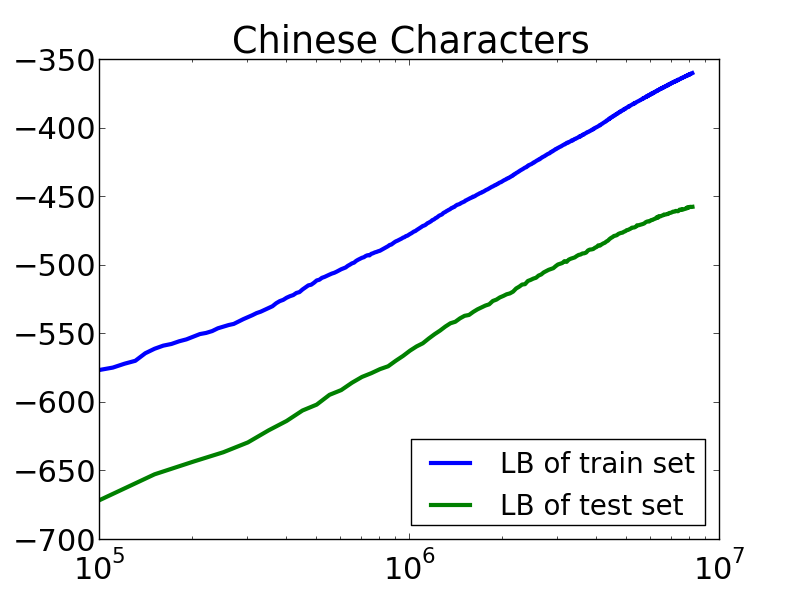
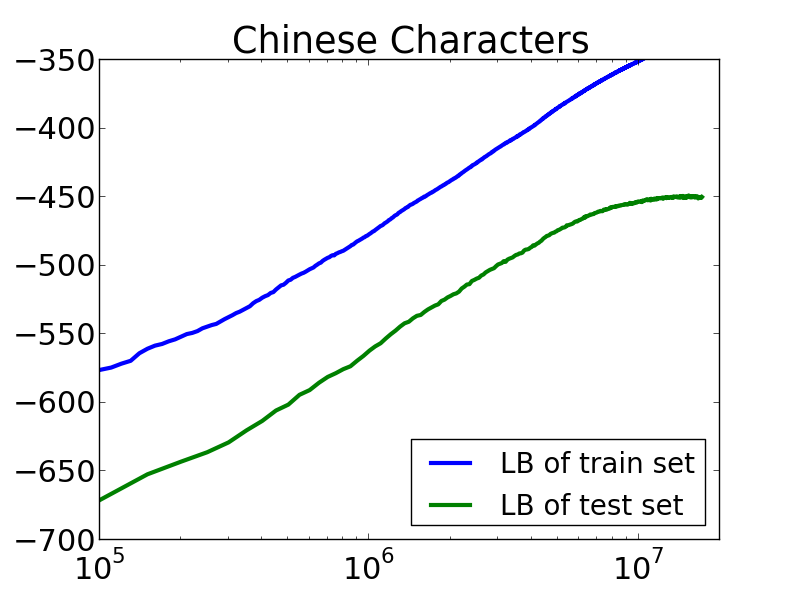
oops forgot to add

diff --git a/report/report.tex b/report/report.tex
@@ -39,8 +39,7 @@ We would like to learn $\theta$ by gradient ascent/descent by differentiating so
 
 \subsection{The variational bound}
 
-%wat betekent "efficiently find the likelihood function?"
-In order to efficiently find the likelihood function, \cite{kingma2013auto} introduce $q_\phi(z|x)$ which approximates the true posterior $p_\theta(z|x)$. The marginal likelihood of each datapoint i then becomes:
+In order to be able to find the likelihood function, \cite{kingma2013auto} introduce $q_\phi(z|x)$ which approximates the (intractable) true posterior $p_\theta(z|x)$. The marginal likelihood of each datapoint i then becomes:
 
 \begin{align}
 	\log p_\theta(x^{(i)}) = D_{KL}(q_\phi(\mathbf{z}|\mathbf{x}^{(i)}) || p_\theta(\mathbf{z}|\mathbf{x}^{(i)})) + \mathcal{L}(\mathbf{\theta}, \mathbf{\phi}; \mathbf{x}^{(i)})
@@ -59,13 +58,15 @@ z = g_\phi(\mathbf{\epsilon},\mathbf{x}) \text{  with  } \mathbf{\epsilon} \sim 
 Where $p(\mathbf{\epsilon}) = N(0,I)$.
 
 %volgende zin snap ik (nog?) niet
+%Ik snap dit gedeelte ook niet helemaal, staat in de paper onderaan pagina 3 van versie 7: http://arxiv.org/pdf/1312.6114v7.pdf
+%Misschien nog even overleggen
 We can now form Monte Carlo estimates of expectations of some function f(z) with respect to $q_\phi(z|x)$. This yields the following expression for the lower bound:
 
 \begin{align}
 \mathcal{L}(\theta ,\phi ,  \mathbf{x^{(i)}}) \backsimeq \frac{1}{L} \sum_{l=1}^{L} \text{log } p_{\theta} (x^{(i)}|z^{(l)})+ \text{log }p(z^{(l)}	)-\text{log }q_{\phi}(z^{(l)}|x^{(i)})
 \end{align}
 
-\cite{kingma2013auto} derive an analytical expression for KLD, which we also use in our implementation as this reduces noise and computation time. %hier nog iets van: "we can now perform stochastic gradient ascent on the lower bound" of zo?
+\cite{kingma2013auto} derive an analytical expression for KLD, which we also use in our implementation as this reduces noise and computation time. On this lower bound we can perform gradient descent and make our 
 
 
 \subsection{Modelling the conditional distributions}
@@ -159,18 +160,16 @@ As the features were extracted from a one-layer neural network, this result was 
 
 To investigate whether the boost in classification accuracy generalizes (at least in part) to other data, we also performed classification on the handwritten Chinese character dataset \cite{liu2011casia}. \\
 This dataset consists of 1,121,749 annotated data points in 3,750 different classes, with each class containing approximately the same number of characters. Each data point contains grey values of an image of a handwritten Chinese character and a code for its corresponding class. For preprocessing, we binarized the images and scaled them to 40x40. This is still larger than MNIST, which has dimensions 28 x 28 but was deemed necessary to keep the more fine grained structure of the characters intact. As images had varying aspect ratios, we added white padding whenever necessary, in order to have constant dimensionality of the data. Due to resource and time limitations, we only used 50 classes, resulting in 11,578 data points. The resulting dataset is similar to MNIST in size and type, but considerably more complex in that the images are larger, there are 5 times as many classes, and the structure in the images is more complex.\\
-Once again, we trained an auto-encoder on the data, and used logistic regression to classify the data. For the auto-encoder, we used 500 hidden units and hidden dimensionality of 200. The auto-encoder is trained on the 10,000 images in the train set and the lower bound on the log likelihood during training is shown in Figure 5. 
+Once again, we trained an auto-encoder on the data, and used logistic regression to classify the data. For the auto-encoder, we used 500 hidden units and hidden dimensionality of 200. The auto-encoder is trained on the 10,000 images and the lower bound on the marginal log likelihood during training is shown in Figure 5. Due to the amount of classes the test set performance is significantly lower, at around $10^7$ datapoints the performance on the test set no longer increases.
 
 
-%!!! CHANGE THIS PLOT
 \begin{figure}[htb]
 \begin{center}
 \includegraphics[height=3.1in,width=4in]{lowerboundchinese.png}
-\caption{Lower bound of the log likelihood per data point of the train set during training.}
+\caption{Lower bound of the log likelihood per data point during training.}
 \end{center}
 \end{figure}
 
-%Update these scores by using the new trained chinese character encoder (on small set)?
 Once again, we trained a classifier with logistic regression on both the preprocessed pixel values as well as the features extracted from the trained encoder. \\
 Logistic regression on the pixel values yielded a test set accuracy of 66.29\%, compared to 69.17\% when classifying on the features. Percentage-wise, this is a similar increase in accuracy as achieved on MNIST. However, as logistic regression on MNIST already scores above 90\%, the improvement there is more impressive. \\
 It is not obvious whether this indicates whether the learned features are less effective for this dataset than for MNIST. If so, one possible explanation is that the lower bound had not converged as much as the lower bound for MNIST (see Figure 1). Additional experiments, such as training the auto-encoder longer, training an RBM to extract features to classify on, and training on a larger part of the Chinese character dataset could provide more insight in the effectiveness on SGVB auto-encoders for use in classification in general and for the Chinese character dataset in particular.

diff --git a/plot/lowerbound.py b/plot/lowerbound.py
@@ -14,7 +14,7 @@ datatest = np.load('testlowerboundchinese.npy')
 xtest = np.arange(0,datatest.shape[0]*50000,50000)
 plt.plot(xtest,datatest, linewidth = 3)
 
-plt.axis((100000,10000000,-700,-350))
+plt.axis((100000,20000000,-700,-350))
 matplotlib.rcParams.update({'font.size': 22})
 plt.title('Chinese Characters')
 plt.legend(('LB of train set', 'LB of test set'),loc=4,prop={'size':20})
